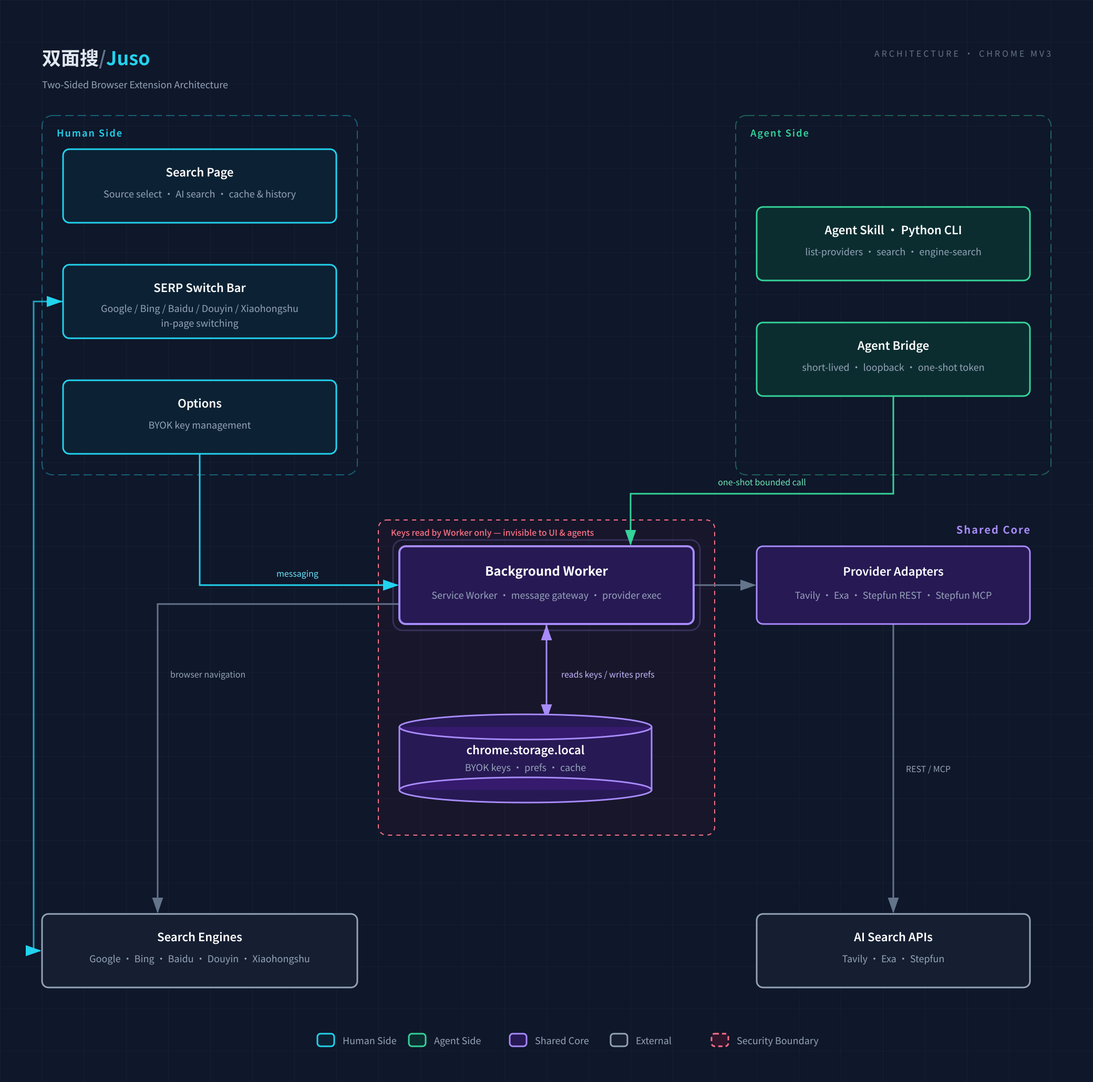
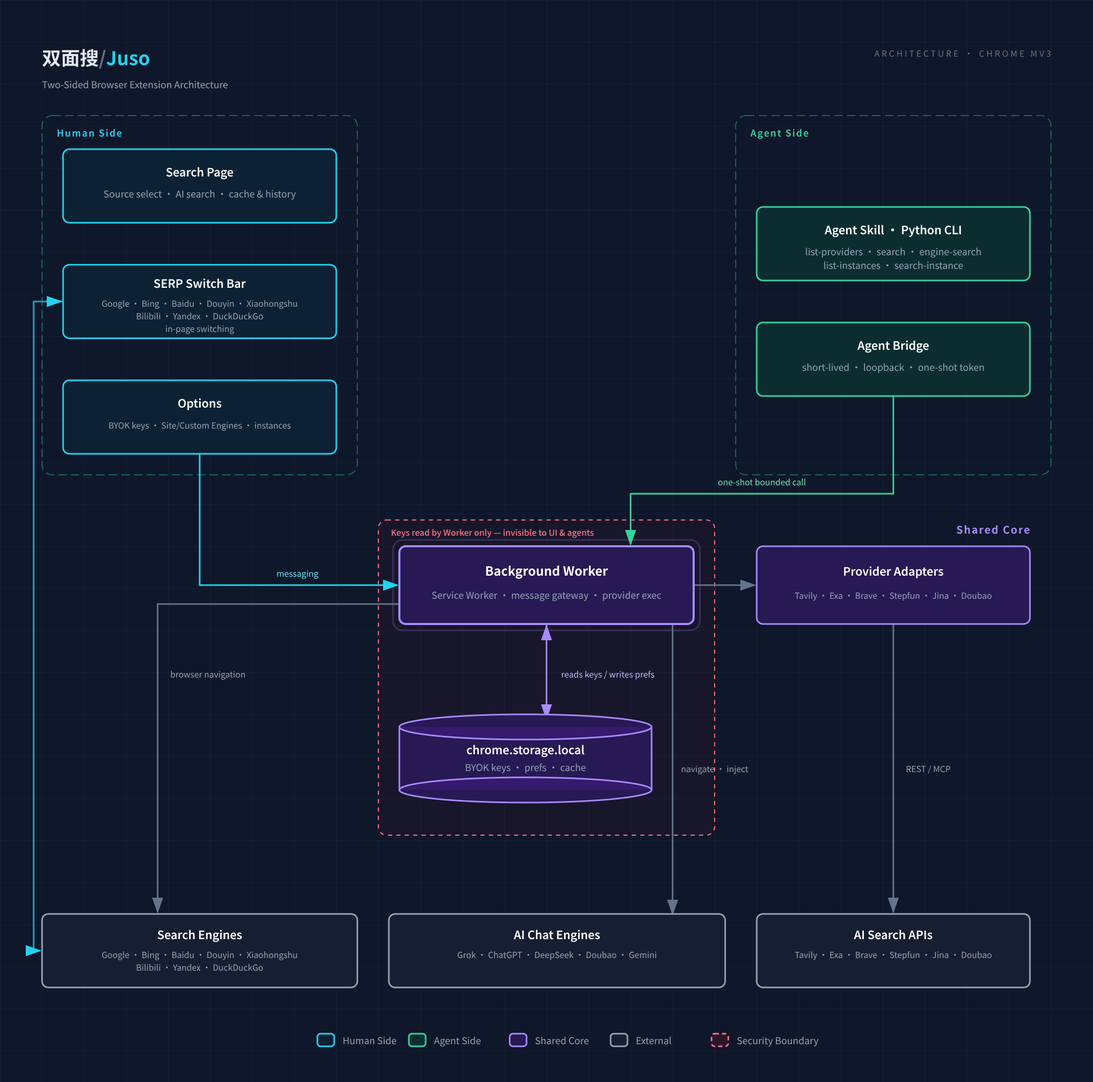
docs: sync README, DEVELOPMENT, AGENTS.md, and architecture diagrams with v1.4.0 feature surface
Update all repo docs to reflect the five source types (conventional engines,
Site Engines, Custom Engines, AI Chat Engines, AI search services with
instances), the v1.4.0 version bump, and the agent v2 commands. Regenerate
architecture SVG/PNG exports. Add a release-process step covering the full
doc + diagram audit.

diff --git a/README.en.md b/README.en.md
@@ -11,7 +11,7 @@
 
 > **Search with equal focus on people and agents.**
 
-Juso is an open-source, two-sided search product. It gives people one place to select and switch between conventional search engines, saved site-scoped searches (Site Engines), and configured AI search services. It also lets local AI agents use AI search APIs through the same browser or search conventional engines. The extension manages credentials locally, while requests go directly to the service you select. Even using only the human side, it is a fully functional, ready-to-use search aggregation and switching tool — Google, Bing, Baidu, Douyin, Xiaohongshu, Bilibili, Yandex, and DuckDuckGo work with zero AI service configuration, and you can save site-scoped searches in settings without any API key.
+Juso is an open-source, two-sided search product. It gives people one place to select and switch between conventional search engines, saved site-scoped searches (Site Engines), custom engines, AI chat engines, and configured AI search services. It also lets local AI agents use AI search APIs through the same browser or search conventional engines. The extension manages credentials locally, while requests go directly to the service you select. Even using only the human side, it is a fully functional, ready-to-use search aggregation and switching tool — Google, Bing, Baidu, Douyin, Xiaohongshu, Bilibili, Yandex, and DuckDuckGo work with zero AI service configuration, and you can save site-scoped searches or any URL-template-based custom engines in settings, and use AI chat sites as switchable search engines, all without any API key.
 
 | For | What it does today |
 | --- | --- |
@@ -36,24 +36,26 @@ Juso is an open-source, two-sided search product. It gives people one place to s
 
 ## Current Capabilities and Sources
 
-Juso presents a **Search Source** as one user-facing choice. A source can be a conventional **Search Engine**, a user-saved **Site Engine**, or a configured AI search service; those three types use different execution paths.
+Juso presents a **Search Source** as one user-facing choice. A source can be a conventional **Search Engine**, a user-saved **Site Engine**, a user-defined **Custom Engine**, a configured AI search service (which can have multiple tuned **instances**), or a preset **AI Chat Engine**; those five types use different execution paths.
 
 - Conventional Search Engines: Google, Bing, Baidu, Douyin, Xiaohongshu, Bilibili, Yandex, and DuckDuckGo. They use no API key; Juso navigates a browser for people to use directly; all eight engines also let agents extract ordinary search results (Bilibili, Xiaohongshu, and Douyin extraction runs in a logged-in browser profile).
 - Site Engines: save multiple site-scoped searches in extension settings. Each entry fixes Google, Bing, or Baidu as the underlying engine and searches that site with a `site:` operator. Targets must be public hostnames; the underlying engine is chosen at create time and does not change afterward. Saved entries appear on the search page and the SERP Switch Bar like other sources. No API key required.
-- AI search services: Tavily, Exa, Brave, Stepfun pay-as-you-go API, Stepfun Step Plan, Jina, and Doubao (Custom and Global endpoints). They are accessed through a normalized adapter interface, while each service retains its own authentication and billing.
-- Answer capability: Tavily and Exa can return a synthesized answer with a result list. Stepfun (including Step Plan), Brave, Jina, and Doubao currently return result lists only.
+- Custom Engines: save any URL containing a `%s` placeholder in extension settings, and it becomes a search engine on the search page and SERP Switch Bar. Unlike Site Engines, a Custom Engine navigates directly to a user-specified URL with no underlying engine. No API key required.
+- AI search services: Tavily, Exa, Brave, Stepfun pay-as-you-go API, Stepfun Step Plan, Jina, and Doubao (Custom and Global endpoints). They are accessed through a normalized adapter interface, while each service retains its own authentication and billing. Services that support instances (currently Exa and Doubao Custom) can save multiple tuned variants (e.g. different search scenarios or filter directions); each instance is a first-class switchable target in the quick-switch bar. Instances hold no credentials — keys remain shared per service type.
+- AI Chat Engines: Grok, ChatGPT, DeepSeek, Doubao, and Gemini. They turn AI chat sites into search engines: switching to one auto-fills the query, with optional auto-submit. These sources are hidden by default (login required) and appear in the quick-switch bar after you show them in settings. No API key required.
+- Answer capability: Tavily and Exa can return a synthesized answer with a result list. Stepfun (including Step Plan), Brave, Jina, and Doubao currently return result lists only. AI Chat Engines are conversational interfaces and are not included here.
 
 In the current release, “aggregation” means unified access, selection, and fast source switching. It does **not** mean a query retrieves from several sources in parallel by default, nor that results are merged, deduplicated, or fused by default.
 
 ## For People
 
-The independent search page lets you choose and switch Search Sources, including saved Site Engines. On supported Google, Bing, Baidu, Douyin, Xiaohongshu, Bilibili, Yandex, and DuckDuckGo result pages, the SERP Switch Bar can move the current query to another search engine, a Site Engine, or hand it off to Juso’s AI search page.
+The independent search page lets you choose and switch Search Sources, including saved Site Engines and Custom Engines. On supported Google, Bing, Baidu, Douyin, Xiaohongshu, Bilibili, Yandex, and DuckDuckGo result pages, the SERP Switch Bar can move the current query to another search source, or hand it off to Juso’s AI search page.
 
 Successful AI searches are cached on the current device and appear in local search history that can be reviewed and replayed. Cache entries are scoped to a service plus normalized query, and are not shared across services. Use explicit refresh when you need fresh results; it bypasses the cache and may incur charges from the selected AI service.
 
 ## Quick Start
 
-Juso v1.3.0 is available on GitHub Release (Chrome Web Store currently shows v1.2.0; v1.3.0 pending review).
+Juso v1.4.0 is available on GitHub Release (Chrome Web Store currently shows v1.3.0; v1.4.0 pending review).
 
 ### Install the extension
 
@@ -64,9 +66,9 @@ Juso v1.3.0 is available on GitHub Release (Chrome Web Store currently shows v1.
 
 Chrome Web Store installation has no developer-mode warnings and supports automatic updates.
 
-**From GitHub Release (v1.3.0)**
+**From GitHub Release (v1.4.0)**
 
-1. Download `juso-search-1.3.0-chrome-dev.zip` from the [GitHub Release v1.3.0](https://github.com/aiguozhi123456/juso-search/releases/tag/v1.3.0).
+1. Download `juso-search-1.4.0-chrome-dev.zip` from the [GitHub Release v1.4.0](https://github.com/aiguozhi123456/juso-search/releases/tag/v1.4.0).
 2. Extract the ZIP.
 3. Open `chrome://extensions` in Chromium, enable Developer mode, choose **Load unpacked**, and select the extracted directory that directly contains `manifest.json`.
 
@@ -76,43 +78,27 @@ See the [development document](docs/DEVELOPMENT.en.md) for development commands,
 
 ### People
 
-1. Open the Juso search page and choose a Search Source. Google, Bing, Baidu, Douyin, Xiaohongshu, Bilibili, Yandex, and DuckDuckGo need no configuration (engines hidden by default can be shown from settings). To add site-scoped search, create Site Engines in extension settings (site + underlying engine). Configure the corresponding key only when using an AI search service.
+1. Open the Juso search page and choose a Search Source. Google, Bing, Baidu, Douyin, Xiaohongshu, Bilibili, Yandex, and DuckDuckGo need no configuration (engines hidden by default can be shown from settings). AI Chat Engines likewise need no API key (hidden by default, login required). To add site-scoped search, create Site Engines in extension settings (site + underlying engine). You can also add Custom Engines (any URL with a `%s` placeholder). Configure the corresponding key only when using an AI search service.
 
-You can now search and switch among conventional engines, saved Site Engines, and configured AI search services from one entry point.
+You can now search and switch among conventional engines, Site Engines, Custom Engines, AI Chat Engines, and configured AI search services from one entry point.
 
 ### Local AI Agents
 
 1. Install and enable the extension in the **Chromium-family browser that will run Agent calls** (Chrome, Edge, Chromium, etc.). `engine-search` needs no AI search service configuration; configure the corresponding service only when calling an AI search API through `search --provider`.
-2. Choose the skill that matches your Juso installation:
-   - **Chrome Web Store installation** (recommended): install or copy `skills/juso-search/` into your agent's skills directory, for example `.agents/skills/juso-search/`. The extension ID is built in by default—no setup needed.
-   - **Developer build** (self-built via `npm run build:dev`): install or copy `skills/juso-search-dev/` into your agent's skills directory, for example `.agents/skills/juso-search-dev/`. The only difference between the two skills is the extension ID; choose based on how you installed Juso.
-   Or download the companion Agent Skill from Options → General → Agent Bridge (auto-stamped with this extension's ID; unzip into `.agents/skills/`. Custom dev builds are supported too).
-3. Only set `JUSO_EXTENSION_ID` or pass `--extension-id` when you self-sign a pack (or the ID differs from the default).
-4. If auto-discovery cannot find a browser, or Juso is installed only in Edge (or another non-default binary), point the skill at **the executable whose profile has Juso** (optionally set a profile directory name):
-
-```powershell
-$env:JUSO_CHROME_PATH = "C:\Program Files (x86)\Microsoft\Edge\Application\msedge.exe"
-# optional: $env:JUSO_CHROME_PROFILE = "Default"
-# optional: $env:JUSO_EXTENSION_ID = "YOUR_EXTENSION_ID"
-```
-
-```bash
-export JUSO_CHROME_PATH="/path/to/msedge-or-chrome"
-# optional: export JUSO_CHROME_PROFILE="Default"
-# optional: export JUSO_EXTENSION_ID="YOUR_EXTENSION_ID"
-```
-
-5. Run commands from the skill directory, for example:
+2. Open Options → General → Agent Bridge and turn on the Agent Bridge master switch (off by default; must be enabled explicitly). To use `engine-search` for conventional engines, also enable its sub-switch.
+3. On the same page, click **Download companion Agent Skill** — the skill is auto-stamped with this machine's extension ID; unzip it into `.agents/skills/`.
+4. Run commands from the skill directory, for example:
 
 ```bash
 python scripts/juso_search.py list-providers
 python scripts/juso_search.py search "latest AI research" --provider tavily
 python scripts/juso_search.py engine-search "latest AI research" --engine google --max-results 10
+# Services that support instances (Exa, Doubao) can be searched per instance:
+python scripts/juso_search.py list-instances
+python scripts/juso_search.py search-instance "latest AI research" --instance-id inst:exa:abc123
 ```
 
-To override temporarily: `python scripts/juso_search.py --chrome /path/to/browser --extension-id YOUR_EXTENSION_ID list-providers`.
-
-The local agent can now list configured services, perform API searches with an **explicit** provider, or search any supported conventional engine (Google, Bing, Baidu, Yandex, DuckDuckGo, Bilibili, Xiaohongshu, Douyin) through the browser—without receiving stored credentials.
+The local agent can now list configured services, perform API searches with an **explicit** provider, search instance-supporting services per instance, or search any supported conventional engine (Google, Bing, Baidu, Yandex, DuckDuckGo, Bilibili, Xiaohongshu, Douyin) through the browser—without receiving stored credentials. Edge-case settings such as browser path, profile, extension ID, and timeout are documented in the skill's reference files.
 
 ## Security and Data Boundaries
 
@@ -125,7 +111,7 @@ The local agent can now list configured services, perform API searches with an *
 
 Agents invoke bounded extension-worker actions through the Agent Bridge: a short-lived, loopback-only capability channel, not a persistent local API. Every invocation uses a new local port, token, and request identity, and expires on completion or timeout.
 
-`search` requires `--provider`; it never silently follows the extension’s current provider. `engine-search` extracts ordinary result links only and does not promise AI summaries, knowledge panels, or other page content. Once an agent has a URL, page retrieval belongs to its host’s own capability, such as `web_fetch`. Launch and bridge failures return structured `error.kind` values on stdout (for example `chrome_not_found`, `chrome_launch_failed`, `extension_did_not_claim`, `extension_did_not_complete`). Fix browser path, profile, extension id, and confirm Juso is enabled in the opened browser—do not retry by exposing keys. Engine searches also fail on challenges, consent pages, unsupported layouts, and no results. See `skills/juso-search/SKILL.md` for the full kind table.
+`search` requires `--provider`; it never silently follows the extension’s current provider. Services that support instances (Exa, Doubao) can be searched per instance with `search-instance --instance-id`; obtain instance ids from `list-instances`. `engine-search` extracts ordinary result links only and does not promise AI summaries, knowledge panels, or other page content. Once an agent has a URL, page retrieval belongs to its host’s own capability, such as `web_fetch`. Launch and bridge failures return structured `error.kind` values on stdout (for example `chrome_not_found`, `chrome_launch_failed`, `extension_did_not_claim`, `extension_did_not_complete`). Fix browser path, profile, extension id, and confirm Juso is enabled in the opened browser—do not retry by exposing keys. Engine searches also fail on challenges, consent pages, unsupported layouts, and no results. See `skills/juso-search/SKILL.md` for the full kind table.
 
 ## Development
 

diff --git a/README.md b/README.md
@@ -11,7 +11,7 @@
 
 > **一面为人，一面为智能体。**
 
-Juso 是一个开源的双面搜索产品：它让人类用户在同一入口选择、切换传统搜索引擎、站外搜索（Site Engine）与已配置的 AI 搜索服务；也让本地 AI 智能体通过同一台浏览器调用 AI 搜索 API，或检索传统搜索引擎。密钥由扩展在本地管理，搜索请求直接前往你选择的服务。即使只使用人类这一面，它也是一个功能完整、开箱即用的搜索聚合与切换工具——无需配置任何 AI 服务即可使用 Google、Bing、Baidu、抖音、小红书、哔哩哔哩、Yandex 和 DuckDuckGo，也可在设置中保存面向指定站点的站外搜索。
+Juso 是一个开源的双面搜索产品：它让人类用户在同一入口选择、切换传统搜索引擎、站外搜索（Site Engine）、自定义引擎、AI 对话引擎与已配置的 AI 搜索服务；也让本地 AI 智能体通过同一台浏览器调用 AI 搜索 API，或检索传统搜索引擎。密钥由扩展在本地管理，搜索请求直接前往你选择的服务。即使只使用人类这一面，它也是一个功能完整、开箱即用的搜索聚合与切换工具——无需配置任何 AI 服务即可使用 Google、Bing、Baidu、抖音、小红书、哔哩哔哩、Yandex 和 DuckDuckGo，也可在设置中保存面向指定站点的站外搜索、任意带查询参数的自定义引擎，并把 AI 对话站点当作搜索引擎切换。
 
 | 面向谁 | 现在能做什么 |
 | --- | --- |
@@ -36,24 +36,26 @@ Juso 是一个开源的双面搜索产品：它让人类用户在同一入口选
 
 ## 当前能力与来源
 
-Juso 将**搜索来源**作为统一的用户选择：它可以是传统**搜索引擎**、用户保存的**站外搜索（Site Engine）**，或已配置的 AI 搜索服务；三者的执行方式不同。
+Juso 将**搜索来源**作为统一的用户选择：它可以是传统**搜索引擎**、用户保存的**站外搜索（Site Engine）**或**自定义引擎（Custom Engine）**、已配置的 AI 搜索服务（可为同一服务创建多个调好参数的**实例**），或预置的 **AI 对话引擎**；五类来源的执行方式不同。
 
 - 传统搜索引擎：Google、Bing、Baidu、抖音、小红书、哔哩哔哩、Yandex、DuckDuckGo。它们不使用 API 密钥；Juso 通过浏览器导航，供人直接使用；八个引擎均支持智能体提取普通搜索结果（哔哩哔哩、小红书、抖音在浏览器已登录状态下提取）。
 - 站外搜索（Site Engine）：在扩展设置中保存多个站点；每个条目固定选用 Google、Bing 或 Baidu 之一，用 `site:` 限定到该站点后搜索。目标须为公网域名；底层引擎在创建时选定，之后不再更改。创建后会出现在搜索页与 SERP 切换栏，与其他来源一样可切换。无需 API 密钥。
-- AI 搜索服务：Tavily、Exa、Brave、Stepfun 按量 API、Stepfun Step Plan、Jina、Doubao（Custom 与 Global 双端点）。服务经由统一的适配器接口访问，但各自的鉴权与计费由相应服务决定。
-- 答案能力：Tavily 和 Exa 可返回综合答案及结果列表；Stepfun（含 Step Plan）、Brave、Jina、Doubao 当前仅返回结果列表。
+- 自定义引擎（Custom Engine）：在扩展设置中保存任意带 `%s` 占位符的网址，即可把它当作搜索引擎加入搜索页与 SERP 切换栏。与站外搜索不同，自定义引擎直接导航到用户指定的 URL，不依赖底层引擎。无需 API 密钥。
+- AI 搜索服务：Tavily、Exa、Brave、Stepfun 按量 API、Stepfun Step Plan、Jina、Doubao（Custom 与 Global 双端点）。服务经由统一的适配器接口访问，但各自的鉴权与计费由相应服务决定。支持实例的服务（当前为 Exa 与 Doubao Custom）可保存多套调好参数的实例（如不同搜索场景或过滤方向），每个实例是快切栏里的一等可切换目标；实例不持有密钥，密钥仍按服务类型共享。
+- AI 对话引擎：Grok、ChatGPT、DeepSeek、豆包、Gemini。把 AI 对话站点当作搜索引擎，切换过去时自动填入查询、可选自动提交。这类来源默认隐藏（需登录），在设置页显示后进入快切栏。不使用 API 密钥。
+- 答案能力：Tavily 和 Exa 可返回综合答案及结果列表；Stepfun（含 Step Plan）、Brave、Jina、Doubao 当前仅返回结果列表。AI 对话引擎为对话界面，不在此列。
 
 “聚合”在当前版本中指统一接入、选择与快速切换搜索来源，**不表示**一次查询默认并行请求多个来源，也不表示默认合并、去重或融合结果。
 
 ## 人类使用
 
-独立搜索页提供搜索来源选择和切换（含已保存的站外搜索）；在 Google、Bing、Baidu、抖音、小红书、哔哩哔哩、Yandex、DuckDuckGo 的受支持结果页上，SERP 切换栏可将当前查询直接切到其他搜索引擎、站外搜索，或跳转至 Juso 的 AI 搜索页。
+独立搜索页提供搜索来源选择和切换（含已保存的站外搜索与自定义引擎）；在 Google、Bing、Baidu、抖音、小红书、哔哩哔哩、Yandex、DuckDuckGo 的受支持结果页上，SERP 切换栏可将当前查询直接切到其他搜索来源，或跳转至 Juso 的 AI 搜索页。
 
 成功的 AI 搜索会缓存在当前设备上，并形成可查看、可重放的本地搜索历史。缓存按“服务 + 规范化查询”区分，不在服务之间共享。需要最新结果时，请显式刷新；刷新会绕过缓存，并可能产生所选 AI 服务的费用。
 
 ## 快速开始
 
-Juso v1.3.0 已在 GitHub Release 发布（Chrome Web Store 目前为 v1.2.0，v1.3.0 审核中）。
+Juso v1.4.0 已在 GitHub Release 发布（Chrome Web Store 目前为 v1.3.0，v1.4.0 审核中）。
 
 ### 安装扩展
 
@@ -64,9 +66,9 @@ Juso v1.3.0 已在 GitHub Release 发布（Chrome Web Store 目前为 v1.2.0，v
 
 Chrome Web Store 安装无开发者模式警告，且可自动更新。
 
-**从 GitHub Release 安装（v1.3.0）**
+**从 GitHub Release 安装（v1.4.0）**
 
-1. 从 [GitHub Release v1.3.0](https://github.com/aiguozhi123456/juso-search/releases/tag/v1.3.0) 下载 `juso-search-1.3.0-chrome-dev.zip`。
+1. 从 [GitHub Release v1.4.0](https://github.com/aiguozhi123456/juso-search/releases/tag/v1.4.0) 下载 `juso-search-1.4.0-chrome-dev.zip`。
 2. 解压 ZIP。
 3. 打开 Chromium 的 `chrome://extensions`，开启"开发者模式"，选择"加载已解压的扩展程序"，并选择解压后直接包含 `manifest.json` 的目录。
 
@@ -76,43 +78,27 @@ Chrome Web Store 安装无开发者模式警告，且可自动更新。
 
 ### 人类用户
 
-1. 打开 Juso 搜索页并选择搜索来源。Google、Bing、Baidu、抖音、小红书、哔哩哔哩、Yandex、DuckDuckGo 无需配置（默认隐藏的可在设置页点「显示」启用）；若要站外搜索，在扩展设置中添加 Site Engine（站点 + 底层引擎）；只有使用 AI 搜索服务时，才需要配置对应服务的密钥。
+1. 打开 Juso 搜索页并选择搜索来源。Google、Bing、Baidu、抖音、小红书、哔哩哔哩、Yandex、DuckDuckGo 无需配置（默认隐藏的可在设置页点「显示」启用）；AI 对话引擎同样无需 API 密钥（默认隐藏，需登录）；若要站外搜索，在扩展设置中添加 Site Engine（站点 + 底层引擎）；也可添加自定义引擎（带 `%s` 占位符的网址）；只有使用 AI 搜索服务时，才需要配置对应服务的密钥。
 
-完成后，你可以在一个入口搜索、切换传统引擎、已保存的站外搜索和已配置的 AI 搜索服务。
+完成后，你可以在一个入口搜索、切换传统引擎、站外搜索、自定义引擎、AI 对话引擎和已配置的 AI 搜索服务。
 
 ### 本地 AI 智能体
 
 1. 按上面的步骤在 **装有 Juso 的 Chromium 系浏览器**（Chrome / Edge / Chromium 等）中安装并启用扩展。使用 `engine-search` 检索传统搜索引擎无需配置 AI 搜索服务；只有通过 `search --provider` 调用 AI 搜索 API 时，才需要先配置对应服务。
-2. 根据你的 Juso 安装方式选择技能：
-   - **Chrome Web Store 安装**（推荐）：将 `skills/juso-search/` 安装或复制到你的智能体技能目录，例如 `.agents/skills/juso-search/`。扩展 ID 已内置默认值，一般无需配置。
-   - **开发版（自行 `npm run build:dev` 构建）**：将 `skills/juso-search-dev/` 安装或复制到你的智能体技能目录，例如 `.agents/skills/juso-search-dev/`。两个技能的唯一区别在于扩展 ID 不同，请按需选择。
-   或从扩展 Options → 通用 → Agent Bridge 一键下载配套 Agent Skill（自动按本机扩展 ID 盖章，解压后拷到 `.agents/skills/` 即可；自定义 dev 构建亦可）。
-3. 仅在自行签名打包（或扩展 ID 与默认不一致）时，才设置 `JUSO_EXTENSION_ID` 或传入 `--extension-id`。
-4. 若自动发现找不到浏览器，或扩展装在 Edge 等非默认二进制上，请把可执行文件路径指到**已安装 Juso 的那一份浏览器**（可同时指定 profile 目录名）：
-
-```powershell
-$env:JUSO_CHROME_PATH = "C:\Program Files (x86)\Microsoft\Edge\Application\msedge.exe"
-# 可选：$env:JUSO_CHROME_PROFILE = "Default"
-# 可选：$env:JUSO_EXTENSION_ID = "你的扩展 ID"
-```
-
-```bash
-export JUSO_CHROME_PATH="/path/to/msedge-or-chrome"
-# optional: export JUSO_CHROME_PROFILE="Default"
-# optional: export JUSO_EXTENSION_ID="YOUR_EXTENSION_ID"
-```
-
-5. 从技能目录运行命令，例如：
+2. 打开扩展 Options → 通用 → Agent Bridge，开启 Agent Bridge 总开关（默认关闭，需显式开启）。若要用 `engine-search` 检索传统搜索引擎，再单独开启其子开关。
+3. 在同一页面点「下载配套 Agent Skill」，得到自动按本机扩展 ID 盖章的技能包，解压后拷到 `.agents/skills/` 即可。
+4. 从技能目录运行命令，例如：
 
 ```bash
 python scripts/juso_search.py list-providers
 python scripts/juso_search.py search "latest AI research" --provider tavily
 python scripts/juso_search.py engine-search "latest AI research" --engine google --max-results 10
+# 支持实例的服务（Exa、Doubao）可按实例搜索：
+python scripts/juso_search.py list-instances
+python scripts/juso_search.py search-instance "latest AI research" --instance-id inst:exa:abc123
 ```
 
-也可以临时覆盖：`python scripts/juso_search.py --chrome /path/to/browser --extension-id YOUR_EXTENSION_ID list-providers`。
-
-完成后，本地智能体可列出已配置的服务、以**显式**服务参数进行 API 搜索，或通过浏览器检索受支持的传统搜索引擎（Google、Bing、Baidu、Yandex、DuckDuckGo、哔哩哔哩、小红书、抖音），而不会取得已存储的密钥。
+完成后，本地智能体可列出已配置的服务、以**显式**服务参数进行 API 搜索、按实例搜索支持实例的服务，或通过浏览器检索受支持的传统搜索引擎（Google、Bing、Baidu、Yandex、DuckDuckGo、哔哩哔哩、小红书、抖音），而不会取得已存储的密钥。浏览器路径、profile、扩展 ID、超时等边缘配置见技能包内的参考文档。
 
 ## 安全与数据边界
 
@@ -125,7 +111,7 @@ python scripts/juso_search.py engine-search "latest AI research" --engine google
 
 智能体通过短生命周期、仅回环地址的 Agent Bridge 调用扩展后台的一次受限操作，而不是连接一个常驻本地 API。每次调用使用新的本地端口、令牌与请求标识，完成或超时后即失效。
 
-`search` 必须提供 `--provider`，不会悄悄跟随扩展当前服务。`engine-search` 仅提取普通结果链接，不承诺 AI 摘要、知识面板或其他页面内容；取得 URL 后，页面抓取应由智能体宿主自己的 `web_fetch` 等能力完成。启动或桥接失败时，标准输出中的 JSON 会带结构化 `error.kind`（例如 `chrome_not_found`、`chrome_launch_failed`、`extension_did_not_claim`、`extension_did_not_complete`）；请按提示检查浏览器路径、profile、扩展 ID，以及打开的浏览器里是否已启用 Juso，不要通过暴露密钥来重试。`engine-search` 在验证页、同意页、布局不支持或无结果时也会失败。完整 kind 表见 `skills/juso-search/SKILL.md`。
+`search` 必须提供 `--provider`，不会悄悄跟随扩展当前服务。支持实例的服务（Exa、Doubao）可用 `search-instance --instance-id` 按实例搜索，实例 id 从 `list-instances` 取得。`engine-search` 仅提取普通结果链接，不承诺 AI 摘要、知识面板或其他页面内容；取得 URL 后，页面抓取应由智能体宿主自己的 `web_fetch` 等能力完成。启动或桥接失败时，标准输出中的 JSON 会带结构化 `error.kind`（例如 `chrome_not_found`、`chrome_launch_failed`、`extension_did_not_claim`、`extension_did_not_complete`）；请按提示检查浏览器路径、profile、扩展 ID，以及打开的浏览器里是否已启用 Juso，不要通过暴露密钥来重试。`engine-search` 在验证页、同意页、布局不支持或无结果时也会失败。完整 kind 表见 `skills/juso-search/SKILL.md`。
 
 ## 开发
 

diff --git a/docs/DEVELOPMENT.en.md b/docs/DEVELOPMENT.en.md
@@ -38,11 +38,13 @@ The development build (`build:dev`) uses a built-in public key to keep the exten
 ![Juso Architecture](assets/architecture-en.svg)
 
 - `entrypoints/search/`: independent human search page, source switching, cache, and history.
-- `entrypoints/options/`: local credentials, Search Source preferences, and Site Engine management.
+- `entrypoints/options/`: local credentials, Search Source preferences, and Site Engine / Custom Engine / Provider Instance management.
 - `entrypoints/background.ts` and `lib/gateway.ts`: background service, message gateway, and bounded Agent Bridge actions.
 - `lib/providers/`: adapters and normalized response model for Tavily, Exa, Brave, Stepfun pay-as-you-go, Step Plan, Jina, and Doubao (Custom/Global).
-- Search Engines, Site Engines, and the SERP Switch Bar: real-browser navigation, `site:` scoped search, result-page switching, and ordinary-result extraction, on an execution path distinct from API services.
-- `lib/site-engines.ts` and `lib/storage.ts`: Site Engine definitions plus local configuration, source preferences, cache, and user-initiated configuration exports.
+- `lib/provider-instances.ts`: multiple instances per provider (tuned-option variants); each instance is a first-class quick-switch target and holds no credentials. The gateway resolves `ProviderInstanceId → { providerId, options }` at the boundary.
+- `lib/engines/`, `lib/ai-engines/`, `lib/site-engines.ts`, `lib/custom-engines.ts`: conventional search engines, AI chat engines (Grok/ChatGPT/DeepSeek/Doubao/Gemini, via injection or URL prefill), Site Engines (`site:`), and Custom Engines (`%s` URL templates).
+- SERP Switch Bar and `lib/engine-search.ts`: result-page switch-bar injection and ordinary-result extraction, on an execution path distinct from API services.
+- `lib/storage.ts`, `lib/config-io.ts`, `lib/schema.ts`: local configuration, source preferences, cache, config import/export, and schema migrations.
 
 ## Tech Stack
 

diff --git a/AGENTS.md b/AGENTS.md
@@ -20,9 +20,13 @@ WXT + React + TypeScript，Chrome MV3。WXT 自动导入 `defineBackground`、`b
 
 - `CONCEPTS.md` — 项目领域词汇（实体、命名流程、状态概念），阅读代码前可先查阅
 - `docs/solutions/` — 已记录的问题解决方案，按类别组织，YAML frontmatter 含 module/tags/problem_type；在已记录领域实现、调试或决策时可检索
-- `lib/providers/` — 七个适配器（tavily/exa/stepfun/stepfun-plan/jina/doubao/doubao-global）归一化为统一模型；共享 `http.ts`（REST）+ `mcp-client.ts`（Step Plan MCP）
+- `lib/providers/` — 八个适配器（tavily/exa/brave/stepfun/stepfun-plan/jina/doubao/doubao-global）归一化为统一模型；共享 `http.ts`（REST）+ `mcp-client.ts`（Step Plan MCP）
+- `lib/provider-instances.ts` — 同一 provider 的多实例（调好参数的变体），实例是快切栏一等目标，不持有密钥；gateway 在边界解析 `ProviderInstanceId → { providerId, options }`
+- `lib/engines/` — 传统搜索引擎（google/bing/baidu/douyin/xiaohongshu/bilibili/yandex/duckduckgo）
+- `lib/ai-engines/` — AI 对话引擎（grok/chatgpt/deepseek/doubao/gemini），注入或 URL 预填
+- `lib/site-engines.ts`、`lib/custom-engines.ts` — 站外搜索（`site:`）、自定义引擎（`%s` URL 模板）
 - `lib/gateway.ts` — worker 处理器（key 仅 worker 读）；`lib/messaging.ts`（@webext-core/messaging，ok/error 判别联合）
-- `lib/storage.ts` — `chrome.storage.local` BYOK（key 读函数按约定仅 worker 调用）
+- `lib/storage.ts`、`lib/config-io.ts`、`lib/schema.ts` — `chrome.storage.local` BYOK（key 读函数按约定仅 worker 调用）、配置导入导出、schema 迁移
 - `entrypoints/search` + `entrypoints/options` — 两个 UI；`components/` 复用组件
 
 ## 安全

diff --git a/docs/DEVELOPMENT.md b/docs/DEVELOPMENT.md
@@ -38,11 +38,13 @@ npm run lint     # eslint .
 ![双面搜架构](assets/architecture.svg)
 
 - `entrypoints/search/`：独立人类搜索页、搜索来源切换、缓存与历史。
-- `entrypoints/options/`：本地密钥、来源偏好与 Site Engine 管理。
+- `entrypoints/options/`：本地密钥、来源偏好、Site Engine / Custom Engine / Provider Instance 管理。
 - `entrypoints/background.ts`、`lib/gateway.ts`：后台服务、消息网关与 Agent Bridge 的受限执行入口。
 - `lib/providers/`：Tavily、Exa、Brave、Stepfun 按量与 Step Plan、Jina、Doubao（Custom/Global）的适配器及统一响应模型。
-- 搜索引擎、Site Engine 与 SERP Switch Bar：真实浏览器导航、`site:` 站外搜索、结果页切换和普通结果提取；其执行契约不同于 API 服务。
-- `lib/site-engines.ts`、`lib/storage.ts`：站外搜索定义与本地配置、来源偏好、缓存与用户发起的配置导出。
+- `lib/provider-instances.ts`：同一 provider 的多实例（调好参数的变体），实例是快切栏一等目标，不持有密钥；gateway 在边界解析 `ProviderInstanceId → { providerId, options }`。
+- `lib/engines/`、`lib/ai-engines/`、`lib/site-engines.ts`、`lib/custom-engines.ts`：传统搜索引擎、AI 对话引擎（Grok/ChatGPT/DeepSeek/豆包/Gemini，注入或 URL 预填）、站外搜索（`site:`）、自定义引擎（`%s` URL 模板）。
+- SERP Switch Bar 与 `lib/engine-search.ts`：结果页切换栏注入、普通结果提取；其执行契约不同于 API 服务。
+- `lib/storage.ts`、`lib/config-io.ts`、`lib/schema.ts`：本地配置、来源偏好、缓存、配置导入导出与 schema 迁移。
 
 ## 技术栈
 

diff --git a/docs/solutions/workflow-issues/chrome-extension-release-process.md b/docs/solutions/workflow-issues/chrome-extension-release-process.md
@@ -1,7 +1,7 @@
 ---
 title: Chrome Extension Dual-Version Release Process
 date: 2026-07-26
-last_updated: 2026-08-01
+last_updated: 2026-08-07
 category: workflow-issues
 module: release
 problem_type: workflow_issue
@@ -49,6 +49,7 @@ juso-search（双面搜）是一个基于 WXT + React + TypeScript 构建的 Chr
 7. **GitHub Release**：创建 Release，**仅附加 dev ZIP**
 8. **CWS 提交**：将生产 ZIP 上传至 Chrome Web Store Developer Dashboard
 9. **CWS 商店文档同步**：同步更新商店文案、隐私问卷与隐私政策（见 [cws-store-docs-must-sync-with-release-features.md](cws-store-docs-must-sync-with-release-features.md)）；提交被拒（如关键字垃圾、字符超限）时按 [cws-listing-copy-submission-constraints.md](cws-listing-copy-submission-constraints.md) 的文案纪律重写后重新提交
+10. **仓库文档与架构图同步**：审计 `README.md` / `README.en.md`（中英两份对称）、`docs/DEVELOPMENT.md` / `docs/DEVELOPMENT.en.md`、`AGENTS.md` 的架构章节，以及 `docs/assets/architecture*.svg`——确保来源类型、provider/引擎清单、agent 命令、版本号与当前代码一致。改完 SVG 后须重新导出 `architecture@2x.png` / `architecture-en@2x.png`（`node -e "require('sharp')(svg,{density:192}).resize(2080,2060,{fit:'fill'}).png().toFile(out)"`）。
 
 ### 两个构建变体的差异
 
